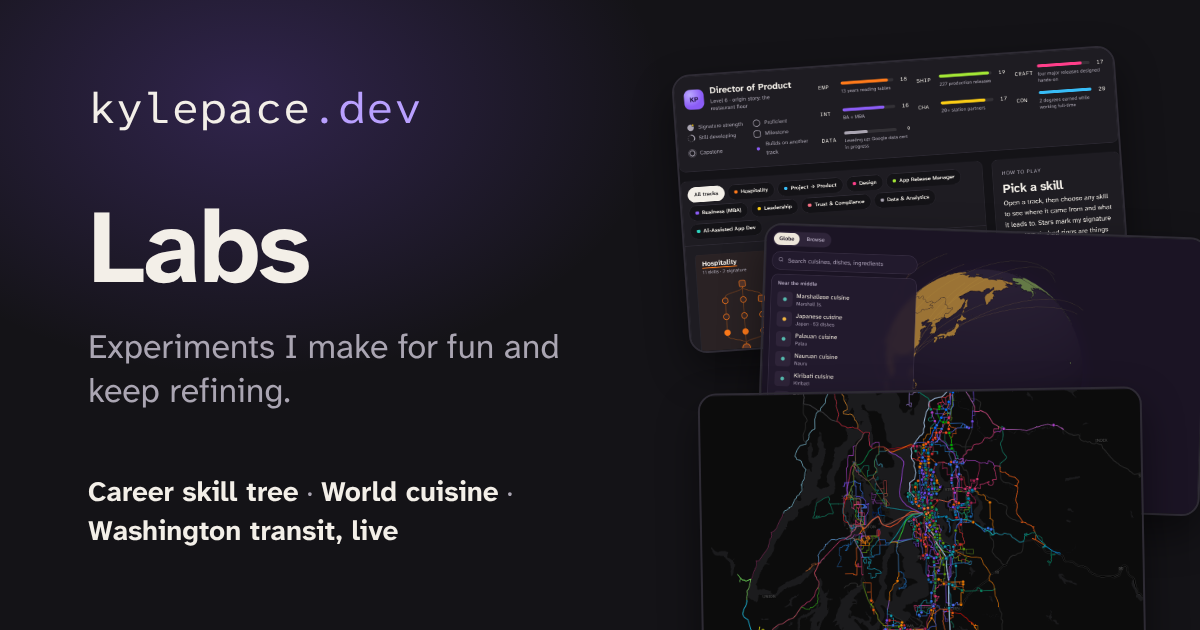
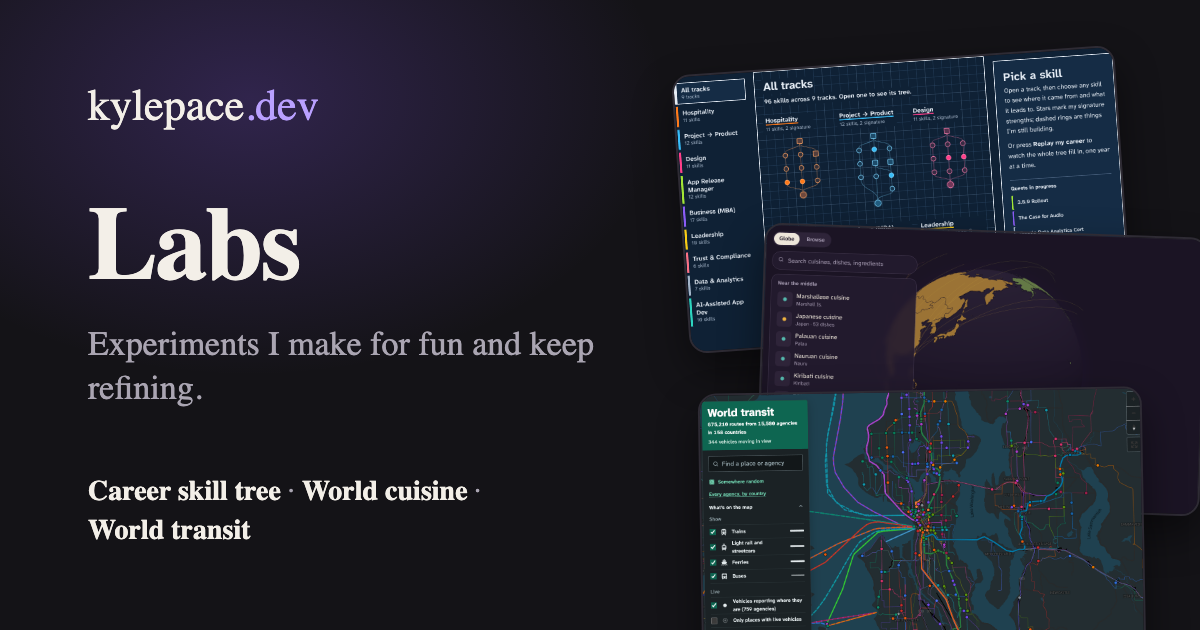
World transit replaces Washington transit on the Labs page, with a launch line in the ship log

diff --git a/src/data/projects.ts b/src/data/projects.ts
@@ -55,17 +55,17 @@ export const projects: Project[] = [
     imageAlt: 'A globe turned to East Asia and the Pacific, beside a search box and a list of nearby cuisines.',
   },
   {
-    slug: 'transit',
-    title: 'Washington transit, live',
-    blurb: 'Every bus, train and ferry in Washington, live.',
+    slug: 'world-transit',
+    title: 'World transit',
+    blurb: 'Every transit route on Earth, on one globe, live.',
     summary:
-      'Every bus, train and ferry in Washington that reports where it is, on one zoomable map with every route and stop. Positions refresh every 15 seconds.',
+      'Every bus, train, tram and ferry route with an open schedule, 675,000 of them in 158 countries, on one globe you can spin and zoom into a single street, with vehicles moving live in over 750 cities and regions. It grew out of the Washington live map.',
     status: 'in-progress',
     accent: 'sky',
     started: 'November 2026',
-    repo: 'kyle-pace/wa-transit-map',
+    repo: 'kyle-pace/world-transit',
     imageAlt:
-      'A dark map of Puget Sound crisscrossed by colored routes and vehicle dots, with a green sign reading Washington transit and a list of layers.',
+      'Seattle on a dark map, crossed by colored bus, light rail and ferry lines with live vehicle dots, beside a green sign reading World transit with search and a legend.',
   },
   {
     slug: 'recipe-search',

diff --git a/design/og-labs.html b/design/og-labs.html
@@ -21,7 +21,7 @@ h1{margin:0;font-size:104px;line-height:1.02;letter-spacing:-0.02em;font-weight:
 <div class="shots">
   <div class="shot" style="left:0;top:0;transform:rotate(-4deg)"><img src="../src/assets/projects/skill-tree.png" alt=""></div>
   <div class="shot" style="left:80px;top:170px;transform:rotate(2deg)"><img src="../src/assets/projects/world-cuisine.png" alt=""></div>
-  <div class="shot" style="left:20px;top:330px;transform:rotate(-1deg)"><img src="../src/assets/projects/transit.png" alt=""></div>
+  <div class="shot" style="left:20px;top:330px;transform:rotate(-1deg)"><img src="../src/assets/projects/world-transit.png" alt=""></div>
 </div>
 <div class="card">
   <div class="mark">kylepace<b>.dev</b></div>
@@ -29,6 +29,6 @@ h1{margin:0;font-size:104px;line-height:1.02;letter-spacing:-0.02em;font-weight:
     <h1>Labs</h1>
     <p class="sub">Experiments I make for fun and keep refining.</p>
   </div>
-  <div class="names"><b>Career skill tree</b> · <b>World cuisine</b> · <b>Washington transit, live</b></div>
+  <div class="names"><b>Career skill tree</b> · <b>World cuisine</b> · <b>World&nbsp;transit</b></div>
 </div>
 </body></html>

diff --git a/src/data/log.ts b/src/data/log.ts
@@ -28,6 +28,14 @@ export interface LogEntry {
 export const log: LogEntry[] = [
   {
     date: '2026-11-15',
+    about: 'world-transit',
+    text: 'New lab: World transit, every transit route on Earth with an open schedule on one globe, with live vehicles in over 750 cities. It replaces the Washington map.',
+    notes: [
+      'It started as the Washington live map and kept going: every open schedule in the three big catalogs, OpenStreetMap lines where countries publish none, and live feeds from Seattle to Helsinki to Sydney, 675,000 routes in all. The hard part was making a planet of routes readable, so trains stay bold, buses go quiet until you zoom in to a street, and the world view draws each rail corridor once. Search for a city or an agency, or try Somewhere random. Old /transit/ links now open the globe on Puget Sound.',
+    ],
+  },
+  {
+    date: '2026-11-15',
     about: 'live-earth',
     text: 'New lab: Live Earth, the whole planet as five weather satellites see it right now, from the Americas to Africa to Australia.',
     notes: [

diff --git a/scripts/screenshot-projects.py b/scripts/screenshot-projects.py
@@ -29,12 +29,13 @@ SELECTORS = {
     "recipe-search": "#app",
     "skill-tree": "#skill-tree",
     "world-cuisine": ".frame",
-    "transit": ".maplibregl-map",
+    "world-transit": ".frame",
     "live-earth": "[data-viewer]",
 }
 
 # A state worth showing, for projects that open empty.
 PATHS = {
+    "world-transit": "?at=-122.33,47.6,10.5",
     "live-earth": "?sat=east&view=earth",
     "recipe-search": "?with=ginger,tofu&site=woks",
 }
